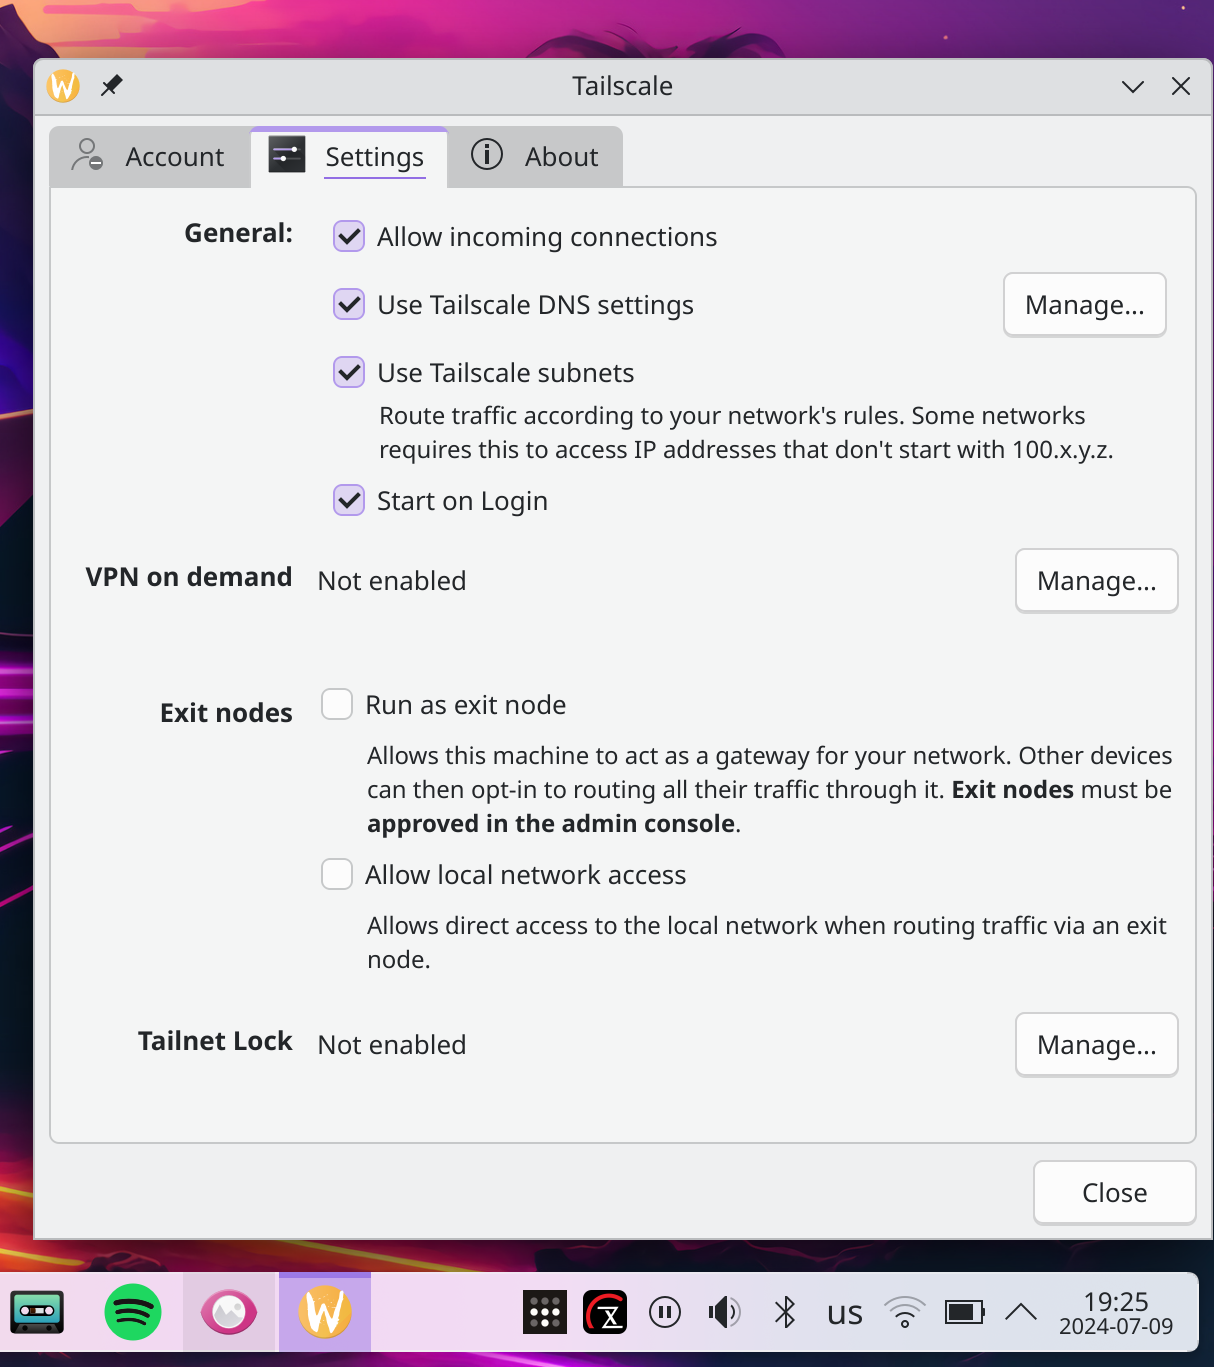
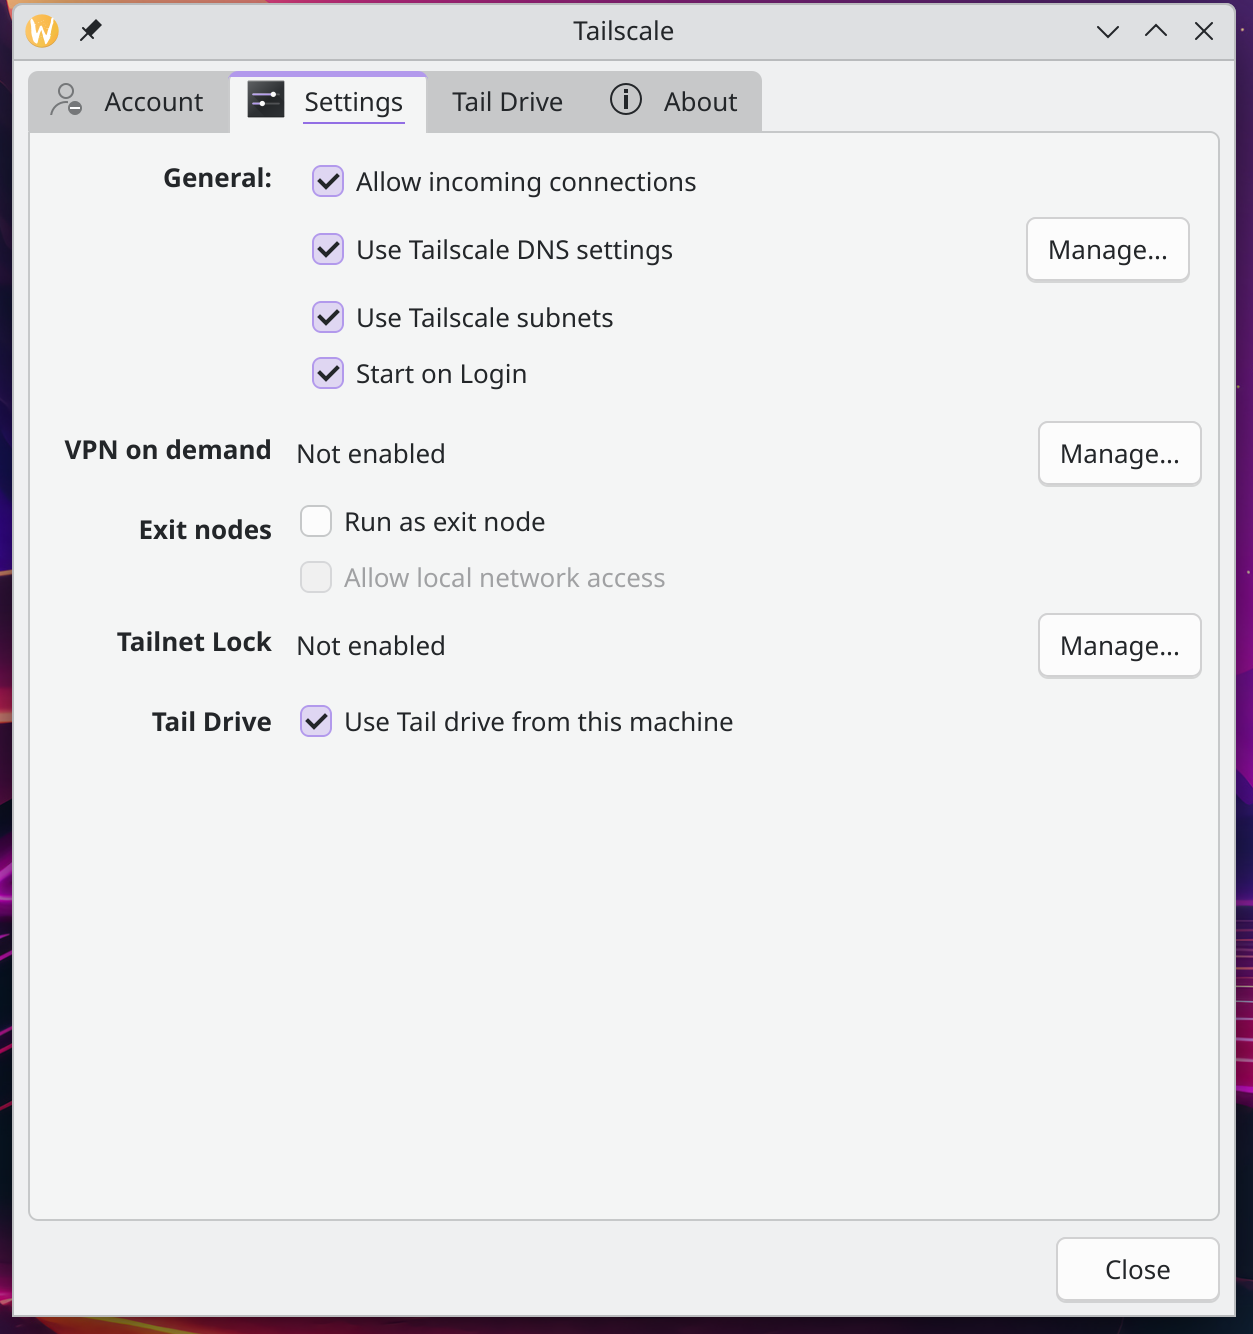
Update README and screenshots

diff --git a/README.md b/README.md
@@ -11,7 +11,7 @@ This is a personal project and is not endorsed by Tailscale Inc. in any shape or
 - [X] Show current connection status of your devices
 - [X] Set and change your Tailscale exit node
 - [X] Proper multi account handling 
-- [ ] Tail drive support - Mostly working, but not yet fully implemented (Lacks the mount handling)
+- [X] Tail drive support - Working with davfs2 support + additional help setting up davfs2 and mounting etc
 
 ### License
 GNU General Public License v3.0 - see [LICENSE](LICENSE) for more details
